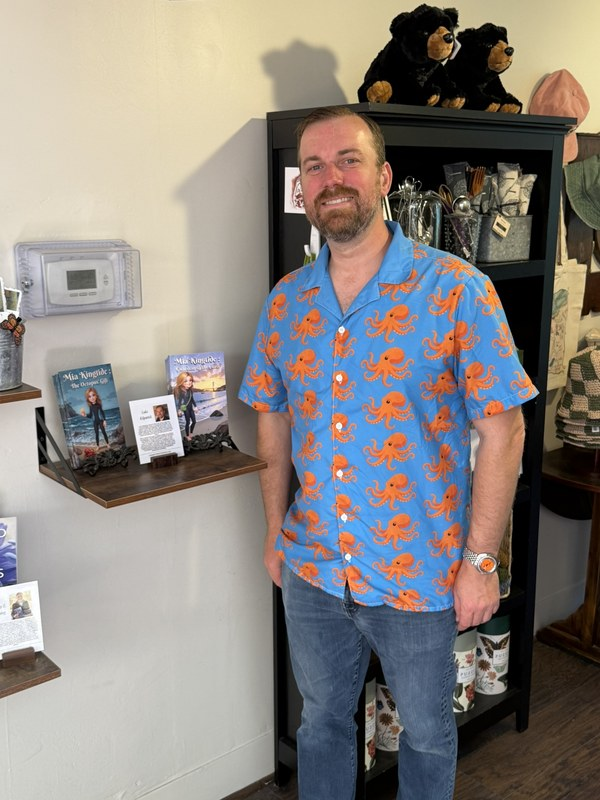
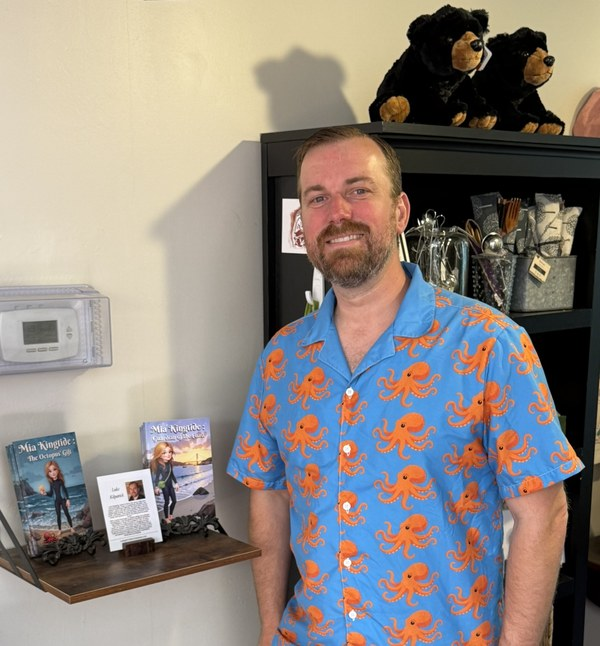
fix: 2-col hero layout, portrait right stacked above parallel callout, tighter crop

diff --git a/app/components/AboutPage.tsx b/app/components/AboutPage.tsx
@@ -91,17 +91,6 @@ export default function AboutPage() {
       {/* ── Section 1: Personal Story ── */}
       <section className="about-hero section-body">
         <div className="about-hero-inner content-wrap">
-          <div className="about-hero-portrait">
-            <Image
-              src="/photos/about-portrait.jpg"
-              alt="Luke Kilpatrick"
-              width={600}
-              height={800}
-              className="about-portrait-img"
-              priority
-            />
-          </div>
-
           <div className="about-hero-text">
             <div className="about-eyebrow">About</div>
             <h1 className="about-title">I make complex things<br />easy to care about.</h1>
@@ -140,7 +129,18 @@ export default function AboutPage() {
             </div>
           </div>
 
-          <div className="about-parallel">
+          <div className="about-hero-right">
+            <div className="about-hero-portrait">
+              <Image
+                src="/photos/about-portrait.jpg"
+                alt="Luke Kilpatrick"
+                width={600}
+                height={646}
+                className="about-portrait-img"
+                priority
+              />
+            </div>
+            <div className="about-parallel">
             <div className="about-parallel-col about-parallel-col--dev">
               <div className="about-parallel-eyebrow">Developer Programs</div>
               <div className="about-parallel-items">
@@ -161,6 +161,7 @@ export default function AboutPage() {
               </div>
             </div>
           </div>
+            </div>
         </div>
       </section>
 
@@ -474,20 +475,11 @@ export default function AboutPage() {
           border-bottom: 1px solid var(--color-primary-light);
           padding-bottom: 1px;
         }
-        @media (max-width: 1000px) {
-          .about-hero-inner {
-            grid-template-columns: 220px 1fr;
-            grid-template-rows: auto auto;
-          }
-          .about-parallel {
-            grid-column: 1 / -1;
-          }
-        }
-        @media (max-width: 700px) {
+        @media (max-width: 860px) {
           .about-hero-inner {
             grid-template-columns: 1fr;
           }
-          .about-hero-portrait { max-width: 260px; }
+          .about-hero-right { max-width: 400px; }
         }
         @media (max-width: 860px) {
           .about-photo-mosaic {
@@ -501,12 +493,17 @@ export default function AboutPage() {
         .about-hero { background: var(--bg); }
         .about-hero-inner {
           display: grid;
-          grid-template-columns: 280px 1fr 1fr;
-          gap: 56px;
+          grid-template-columns: 1fr 380px;
+          gap: 64px;
           align-items: start;
         }
+        .about-hero-right {
+          display: flex;
+          flex-direction: column;
+          gap: 28px;
+        }
         .about-hero-portrait {
-          position: relative;
+          width: 100%;
         }
         .about-portrait-img {
           width: 100%;
